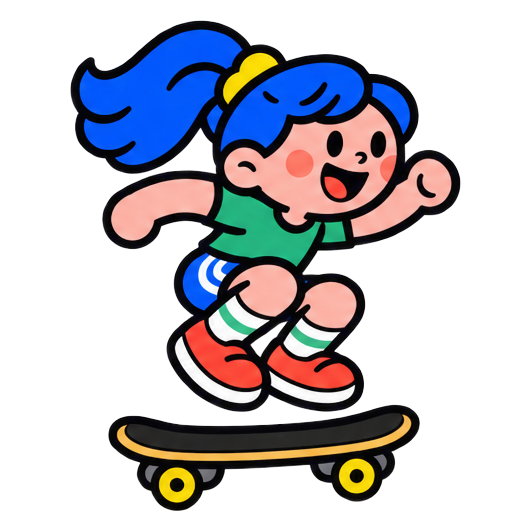
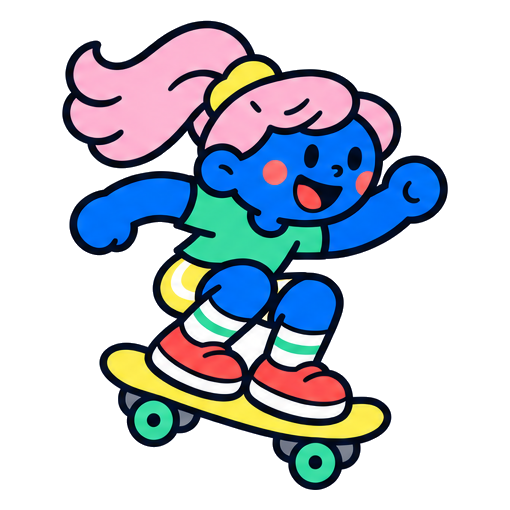
🛹 Ritme skater: een nieuwe skater in de huisstijl, meer beweging op de beat, en klappen tussendoor al vanaf de helft
- Nieuwe sprite sheet: rijden, springen met de neus van het board op en neer,
  bukken en klappen. tools/sprites.py knipt nu ook een witte achtergrond en
  rasterlijnen weg.
- Het vak ademt mee op elke tel, de skater veert op de beat, en wat gehaald is
  gaat met een effectje weg: het blok tuimelt, de balk zwaait na, de klaphanden
  schieten omhoog met sterretjes.
- Klaphanden boven het hoofd, en tussen springen en bukken door al vanaf de
  helft van het liedje.
- Heet overal "de skater", met een nieuw plaatje bovenaan en op het deelkaartje.

diff --git a/js/renner.js b/js/renner.js
@@ -1,9 +1,9 @@
 /* Ritme skater — een extra les
 
-   Op het digibord, voor de hele klas tegelijk. Een meisje skatet van links naar
-   rechts, en van rechts komt van alles op haar af: een blok op de grond
-   (springen), een balk op hoofdhoogte (bukken) en klaphanden. Op de tel is het bij het
-   meisje, en dan doet zij het voor en de klas doet mee. Er wordt niets
+   Op het digibord, voor de hele klas tegelijk. Een skater rijdt van links naar
+   rechts, en van rechts komt van alles op de skater af: een blok op de grond
+   (springen), een balk op hoofdhoogte (bukken) en klaphanden. Op de tel is het
+   bij de skater, die het voordoet, en de klas doet mee. Er wordt niets
    gemeten: het gaat erom dat je het samen op de maat doet.
 
    De juf kiest bovenaan wat er langs komt en hoe druk, en zet
@@ -59,35 +59,35 @@ const RN_AFTELLEN = 4;     // tellen aftellen voordat de eerste maat begint
 //  Het beeld
 // ============================================================
 
-// Het meisje staat links, de grond ligt onderin. Alles in delen van het vak.
-const RN_POP_X = 0.18;     // waar het meisje staat, als deel van de breedte
+// De skater staat links, de grond ligt onderin. Alles in delen van het vak.
+const RN_POP_X = 0.18;     // waar de skater staat, als deel van de breedte
 const RN_GROND = 0.84;     // waar de grond ligt, als deel van de hoogte
-const RN_POP_H = 0.52;     // hoe groot het meisje is, als deel van de hoogte
+const RN_POP_H = 0.52;     // hoe groot de skater is, als deel van de hoogte
 
-// Wat er langs komt, in honderdsten van het vakje van het meisje: breedte,
+// Wat er langs komt, in honderdsten van het vakje van de skater: breedte,
 // hoogte, en hoe hoog de onderkant boven de grond hangt. Het blok haalt ze met
-// springen makkelijk (ze komt 58 hoog). Rijdend is ze 90 tot 95 hoog en
-// gebukt 82 (zie tools/sprites.py), dus de balk op 88 raakt haar alleen als ze
-// niet bukt. De handen komen vlak boven haar hoofd langs: daar hangt niets voor,
+// springen makkelijk (ze komt 58 hoog). Rijdend is ze 100 hoog en gebukt 82
+// (zie tools/sprites.py), dus de balk op 90 raakt haar alleen als ze niet
+// bukt. De handen komen vlak boven haar hoofd langs: daar hangt niets voor,
 // dus je ziet ze al van ver aankomen, en je ziet haar eronder klappen.
 const RN_MATEN = {
   spring: { b: 22, h: 30, boven: 0 },
-  buk:    { b: 40, h: 12, boven: 88 },
-  klap:   { b: 28, h: 28, boven: 102 }
+  buk:    { b: 40, h: 12, boven: 90 },
+  klap:   { b: 28, h: 28, boven: 104 }
 };
 
-// Het meisje staat op een skateboard. Ze komt uit een sprite sheet: vijf
+// De skater staat op een skateboard. Ze komt uit een sprite sheet: zes
 // beeldjes naast elkaar in img/renner-sprites.webp, gemaakt met
 // tools/sprites.py. Welk beeldje waar staat:
 const RN_BEELDJES = {
-  rijden: [0, 1],           // rechtop en iets door de knieën, om en om
-  spring: [1, 2],           // door de knieën afzetten, in de lucht
-  buk: 3,
-  klap: 4,
+  rijden: [0, 1],           // twee houdingen, om en om
+  spring: [2, 3],           // omhoog met de neus van het board op, omlaag met de neus neer
+  buk: 4,
+  klap: 5,
   staan: 0                  // als het spel niet loopt
 };
-const RN_AANTAL_BEELDJES = 5;
-const RN_VAK = 0.853;      // een vakje is 256 bij 300
+const RN_AANTAL_BEELDJES = 6;
+const RN_VAK = 0.85;       // een vakje is 255 bij 300
 
 // ============================================================
 //  Het scherm
@@ -173,8 +173,8 @@ function zelfdeLengte(voortgang) {
 }
 
 // Vanaf hier mogen er klappen tussen het springen en bukken door, op de twee
-// en de vier.
-const RN_KLAP_TUSSENDOOR = 0.7;
+// en de vier: vanaf de helft van het liedje.
+const RN_KLAP_TUSSENDOOR = 0.5;
 const RN_KLAP_TUSSENDOOR_KANS = 0.5;
 
 // Een greep uit de lijst, met een duw naar iets anders dan de vorige keer. Een
@@ -414,7 +414,7 @@ function vulRnAan(nu) {
 // ============================================================
 
 // De maten van het vak zoals het nu op het scherm staat, en hoeveel pixels een
-// honderdste van het vakje van het meisje is.
+// honderdste van het vakje van de skater is.
 function rnBaanMaat() {
   const b = rnBaanEl ? rnBaanEl.clientWidth : 900;
   const h = rnBaanEl ? rnBaanEl.clientHeight : 360;
@@ -446,7 +446,7 @@ function maakRnDing(soort, tijd, aantal) {
   return { soort: soort, tijd: tijd, el: el, vorm: vorm, maat: m, eenheid: eenheid, gezwollen: false };
 }
 
-// Bij het meisje zwelt het even op. Op de vorm erbinnen, want het ding zelf
+// Bij de skater zwelt het even op. Op de vorm erbinnen, want het ding zelf
 // schuift elk beeld op met een transform en die twee zouden elkaar
 // overschrijven.
 function zwelRnOp(ding) {
@@ -460,7 +460,7 @@ function zwelRnOp(ding) {
   ], { duration: 300 });
 }
 
-// Van rechts naar links. Op zijn moment staat het midden bij het meisje;
+// Van rechts naar links. Op zijn moment staat het midden bij de skater;
 // RN_VOORUIT seconden daarvoor komt hij net rechts het beeld in.
 function zetRnDingen(nu, m) {
   const afstand = m.b - m.popX + 40 * m.eenheid;
@@ -550,7 +550,7 @@ function sterretjesRn(el) {
 }
 
 // ============================================================
-//  Het meisje
+//  De skater
 // ============================================================
 
 let rnBeeldje = -1;
@@ -579,7 +579,7 @@ function beeldjeBij(reeks, deel, grenzen) {
   return reeks[i];
 }
 
-// Wat het meisje nu doet. Ze kijkt naar het ding dat het dichtst bij zijn
+// Wat de skater nu doet. Ze kijkt naar het ding dat het dichtst bij zijn
 // moment is. Een sprong begint net voor de tel en is op de tel het hoogst, zodat
 // ze precies boven het blok hangt als het onder haar door gaat. Bukken duurt
 // net zo lang; een klap is kort.
@@ -602,10 +602,10 @@ function werkRnPopBij(nu) {
 
   const deel = bezig ? bezig.dt / bezig.breed : 0;
   if (bezig && bezig.ding.soort === 'spring') {
-    // Door de knieën afzetten, met board en al de lucht in over het blok heen,
-    // en door de knieën weer landen.
+    // Met board en al de lucht in over het blok heen: op weg omhoog de neus van
+    // het board op, na het hoogste punt de neus neer om te landen.
     const sp = RN_BEELDJES.spring;
-    zetRnPop(beeldjeBij([sp[0], sp[1], sp[0]], deel, [-0.3, 0.6]), RN_SPRONG * (1 - deel * deel));
+    zetRnPop(beeldjeBij(sp, deel, [0]), RN_SPRONG * (1 - deel * deel));
     return;
   }
   if (bezig && bezig.ding.soort === 'buk') {
@@ -617,8 +617,8 @@ function werkRnPopBij(nu) {
     return;
   }
 
-  // Anders rijdt ze, en veert ze mee op de achtsten: rechtop, door de knieën,
-  // rechtop. Zo gaat ze mee op de beat, ook tijdens het aftellen.
+  // Anders rijdt ze, en wisselt ze op de achtsten van houding. Zo gaat ze mee
+  // op de beat, ook tijdens het aftellen.
   rn.renFase += (nu - rn.vorigNu) * rn.bpm / 30;
   zetRnPop(RN_BEELDJES.rijden[Math.floor(rn.renFase) % 2], 0);
 }
@@ -814,7 +814,7 @@ if (rnEl) {
   zetRnPop(RN_BEELDJES.staan, 0);
   werkRnBalkBij();
 
-  // Wordt het venster groter of kleiner, dan moet het meisje mee.
+  // Wordt het venster groter of kleiner, dan moet de skater mee.
   window.addEventListener('resize', () => {
     if (!rn || !rn.loopt) zetRnPop(RN_BEELDJES.staan, 0);
   });

diff --git a/ritmeskater.html b/ritmeskater.html
@@ -5,7 +5,7 @@
 <meta name="viewport" content="width=device-width, initial-scale=1">
 
 <title>Ritme skater — spring, buk en klap op de maat | muziekfles.nl</title>
-<meta name="description" content="Ritme skater: een meisje skatet op een stoere hiphopbeat en springt, bukt en klapt precies op de tel. De hele klas doet mee. Gratis online muziekles voor op het digibord.">
+<meta name="description" content="Ritme skater: een skater rijdt op een stoere hiphopbeat en springt, bukt en klapt precies op de tel. De hele klas doet mee. Gratis online muziekles voor op het digibord.">
 <meta name="author" content="Studio Wotto">
 <meta name="robots" content="index, follow, max-image-preview:large, max-snippet:-1">
 
@@ -17,15 +17,15 @@
 <meta property="og:site_name" content="muziekfles.nl">
 <meta property="og:locale" content="nl_NL">
 <meta property="og:title" content="Ritme skater — spring, buk en klap op de maat">
-<meta property="og:description" content="Een meisje skatet op een stoere hiphopbeat. Spring, buk en klap met haar mee, precies op de tel.">
+<meta property="og:description" content="Een skater rijdt op een stoere hiphopbeat. Spring, buk en klap mee, precies op de tel.">
 <meta property="og:image" content="https://muziekfles.nl/img/deelkaart-ritmeskater.png">
 <meta property="og:image:type" content="image/png">
 <meta property="og:image:width" content="1200">
 <meta property="og:image:height" content="630">
-<meta property="og:image:alt" content="Ritme skater: een meisje dat met haar skateboard de lucht in springt, op een blauwe kaart van muziekfles.nl">
+<meta property="og:image:alt" content="Ritme skater: een skater die met het skateboard de lucht in springt, op een blauwe kaart van muziekfles.nl">
 <meta name="twitter:card" content="summary_large_image">
 <meta name="twitter:title" content="Ritme skater — spring, buk en klap op de maat">
-<meta name="twitter:description" content="Een meisje skatet op een stoere hiphopbeat. Spring, buk en klap met haar mee, precies op de tel.">
+<meta name="twitter:description" content="Een skater rijdt op een stoere hiphopbeat. Spring, buk en klap mee, precies op de tel.">
 <meta name="twitter:image" content="https://muziekfles.nl/img/deelkaart-ritmeskater.png">
 
 <link rel="icon" href="favicon.ico" sizes="32x32">
@@ -41,7 +41,7 @@
       "@id": "https://muziekfles.nl/ritmeskater.html#les",
       "url": "https://muziekfles.nl/ritmeskater.html",
       "name": "Ritme skater",
-      "description": "Een meisje skatet op een stoere hiphopbeat en springt, bukt en klapt precies op de tel. De hele klas doet mee.",
+      "description": "Een skater rijdt op een stoere hiphopbeat en springt, bukt en klapt precies op de tel. De hele klas doet mee.",
       "inLanguage": "nl-NL",
       "isAccessibleForFree": true,
       "learningResourceType": "interactieve les",
@@ -86,13 +86,13 @@
     <h1><span class="reeks">Extra</span> Ritme <em>skater</em></h1>
 
     <div class="met-plaatje">
-      <img class="met-plaatje-beeld" src="img/ritmeskater.webp" alt="Een vrolijk meisje met een blauwe paardenstaart dat met haar skateboard de lucht in springt."
+      <img class="met-plaatje-beeld" src="img/ritmeskater.webp" alt="Een vrolijke skater met een roze paardenstaart die met het skateboard de lucht in springt."
            width="480" height="480">
       <div class="met-plaatje-tekst">
         <h2>Doe mee met de skater</h2>
         <p class="lead">
-          Het meisje skatet op de beat. Springt ze, dan spring jij. Bukt ze, dan
-          buk jij. Klapt ze, dan klap jij.
+          De skater rijdt op de beat. Doe precies wat de skater doet: springen,
+          bukken of klappen, op de tel.
         </p>
       </div>
     </div>

diff --git a/css/site.css b/css/site.css
@@ -1911,7 +1911,7 @@ input[type="range"]:not([data-param])::-moz-range-thumb {
 }
 
 /* Het vak: van opzij, zoals het dinospelletje. Een wit vlak met onderin de
-   grond, het meisje links, en alles komt van rechts. Via padding en niet via
+   grond, de skater links, en alles komt van rechts. Via padding en niet via
    aspect-ratio, want een ouder digibord kent die niet. */
 .rn-baan {
   position: relative;
@@ -2012,7 +2012,7 @@ input[type="range"]:not([data-param])::-moz-range-thumb {
 .rn-spring.raak .rn-vorm,
 .rn-buk.raak .rn-vorm { background: var(--mint); }
 
-/* Het meisje: één strook van vijf beeldjes als achtergrond. Javascript
+/* De skater: één strook van zes beeldjes als achtergrond. Javascript
    schuift hem op naar het beeldje dat nu hoort (zie renner.js). */
 .rn-pop {
   position: absolute;
@@ -2027,7 +2027,7 @@ input[type="range"]:not([data-param])::-moz-range-thumb {
 .rn-pop-beeld {
   width: 100%;
   height: 100%;
-  background: url("../img/renner-sprites.webp") 0 0 / 500% 100% no-repeat;
+  background: url("../img/renner-sprites.webp") 0 0 / 600% 100% no-repeat;
   transform-origin: 50% 100%;
   will-change: transform;
 }

diff --git a/index.html b/index.html
@@ -140,7 +140,7 @@
       <span class="icoon"><i class="ph-bold ph-hands-clapping" aria-hidden="true"></i></span>
       <span class="reeks">Extra</span>
       <h2>Ritme skater</h2>
-      <p class="tekst">Een meisje skatet op een stoere hiphopbeat. Spring, buk en klap met haar mee, precies op de tel. De hele klas doet mee.</p>
+      <p class="tekst">Een skater rijdt op een stoere hiphopbeat. Spring, buk en klap mee, precies op de tel. De hele klas doet mee.</p>
       <span class="badge spelen">Spelen</span>
     </a>
 

diff --git a/tools/sprites.py b/tools/sprites.py
@@ -3,9 +3,12 @@
     python tools/sprites.py
 
 Leest img/bron/renner-sprites.png: AANTAL figuurtjes in rijen, van links naar
-rechts en van boven naar onder gelezen, op een doorzichtige achtergrond. Nu
-zijn dat er vijf, op een skateboard: rijden, rijden door de knieën, springen,
-bukken en klappen. Welk beeldje waarvoor is staat in renner.js (RN_BEELDJES).
+rechts en van boven naar onder gelezen. Nu zijn dat er zes, op een skateboard:
+twee keer rijden, springen, bukken, klappen en klappen met sterretjes. Welk
+beeldje waarvoor is staat in renner.js (RN_BEELDJES).
+
+De achtergrond mag doorzichtig zijn of wit. Is hij wit, dan knipt het script
+hem zelf weg (zie wit_weg).
 
 Staan er rasterlijnen omheen, dan gumt het script die eerst weg: een rechte
 lijn die bijna het hele plaatje over loopt is geen figuurtje. Daarna zoekt het
@@ -29,9 +32,76 @@ HIER = os.path.dirname(os.path.abspath(__file__))
 IMG = os.path.join(HIER, '..', 'img')
 HOOGTE = 300          # hoe hoog elk vakje in de strook wordt, in pixels
 KLEIN = 2             # zoeken op de helft van de maat, dat is snel genoeg
-AANTAL = 5            # hoeveel figuurtjes er op de sheet staan
+AANTAL = 6            # hoeveel figuurtjes er op de sheet staan
 
-im = Image.open(os.path.join(IMG, 'bron', 'renner-sprites.png')).convert('RGBA')
+im = Image.open(os.path.join(IMG, 'bron', 'renner-sprites.png'))
+
+
+# Een sheet met een witte achtergrond in plaats van een doorzichtige. Eerst de
+# donkere rasterlijnen wit maken, dan al het wit dat vanaf de rand bereikbaar
+# is doorzichtig. Wit dat helemaal door haar is ingesloten blijft staan (sokken,
+# zolen, strepen), behalve als het hoog en breed is: dat is een gat, tussen
+# haar benen of onder het board.
+def wit_weg(im):
+    im = im.convert('RGB')
+    W, H = im.size
+    px = im.load()
+    # Met een paar pixels marge, want de zachte grijze rand van een lijn is niet
+    # donker genoeg om mee te tellen maar houdt het wit wel tegen.
+    donker = lambda p: max(p) < 90
+    kolommen = [x for x in range(W) if sum(1 for y in range(H) if donker(px[x, y])) > H * 0.95]
+    rijen = [y for y in range(H) if sum(1 for x in range(W) if donker(px[x, y])) > W * 0.95]
+    for x in kolommen:
+        for dx in range(-4, 5):
+            if 0 <= x + dx < W:
+                for y in range(H):
+                    px[x + dx, y] = (255, 255, 255)
+    for y in rijen:
+        for dy in range(-4, 5):
+            if 0 <= y + dy < H:
+                for x in range(W):
+                    px[x, y + dy] = (255, 255, 255)
+
+    wit = lambda p: min(p) > 225
+    weg = bytearray(W * H)
+    gezien = bytearray(W * H)
+    for y0 in range(H):
+        for x0 in range(W):
+            if gezien[y0 * W + x0] or not wit(px[x0, y0]):
+                continue
+            q = deque([(x0, y0)])
+            gezien[y0 * W + x0] = 1
+            leden = []
+            rand = False
+            bb = [x0, y0, x0, y0]
+            while q:
+                cx, cy = q.popleft()
+                leden.append(cy * W + cx)
+                if cx in (0, W - 1) or cy in (0, H - 1):
+                    rand = True
+                bb = [min(bb[0], cx), min(bb[1], cy), max(bb[2], cx), max(bb[3], cy)]
+                for nx, ny in ((cx + 1, cy), (cx - 1, cy), (cx, cy + 1), (cx, cy - 1)):
+                    if 0 <= nx < W and 0 <= ny < H and not gezien[ny * W + nx] and wit(px[nx, ny]):
+                        gezien[ny * W + nx] = 1
+                        q.append((nx, ny))
+            gat = bb[3] - bb[1] >= 50 and bb[2] - bb[0] >= 40
+            if rand or gat:
+                for i in leden:
+                    weg[i] = 1
+
+    uit = im.convert('RGBA')
+    up = uit.load()
+    for y in range(H):
+        for x in range(W):
+            if weg[y * W + x]:
+                up[x, y] = (255, 255, 255, 0)
+    return uit
+
+
+if im.mode != 'RGBA' or im.getpixel((im.width // 2, im.height // 2))[3] == 255:
+    print('witte achtergrond: wordt doorzichtig gemaakt')
+    im = wit_weg(im)
+im = im.convert('RGBA')
 
 # Rasterlijnen weggummen: kolommen en rijen die over (bijna) de hele breedte of
 # hoogte dekkend zijn, met een paar pixels marge voor hun zachte rand.
